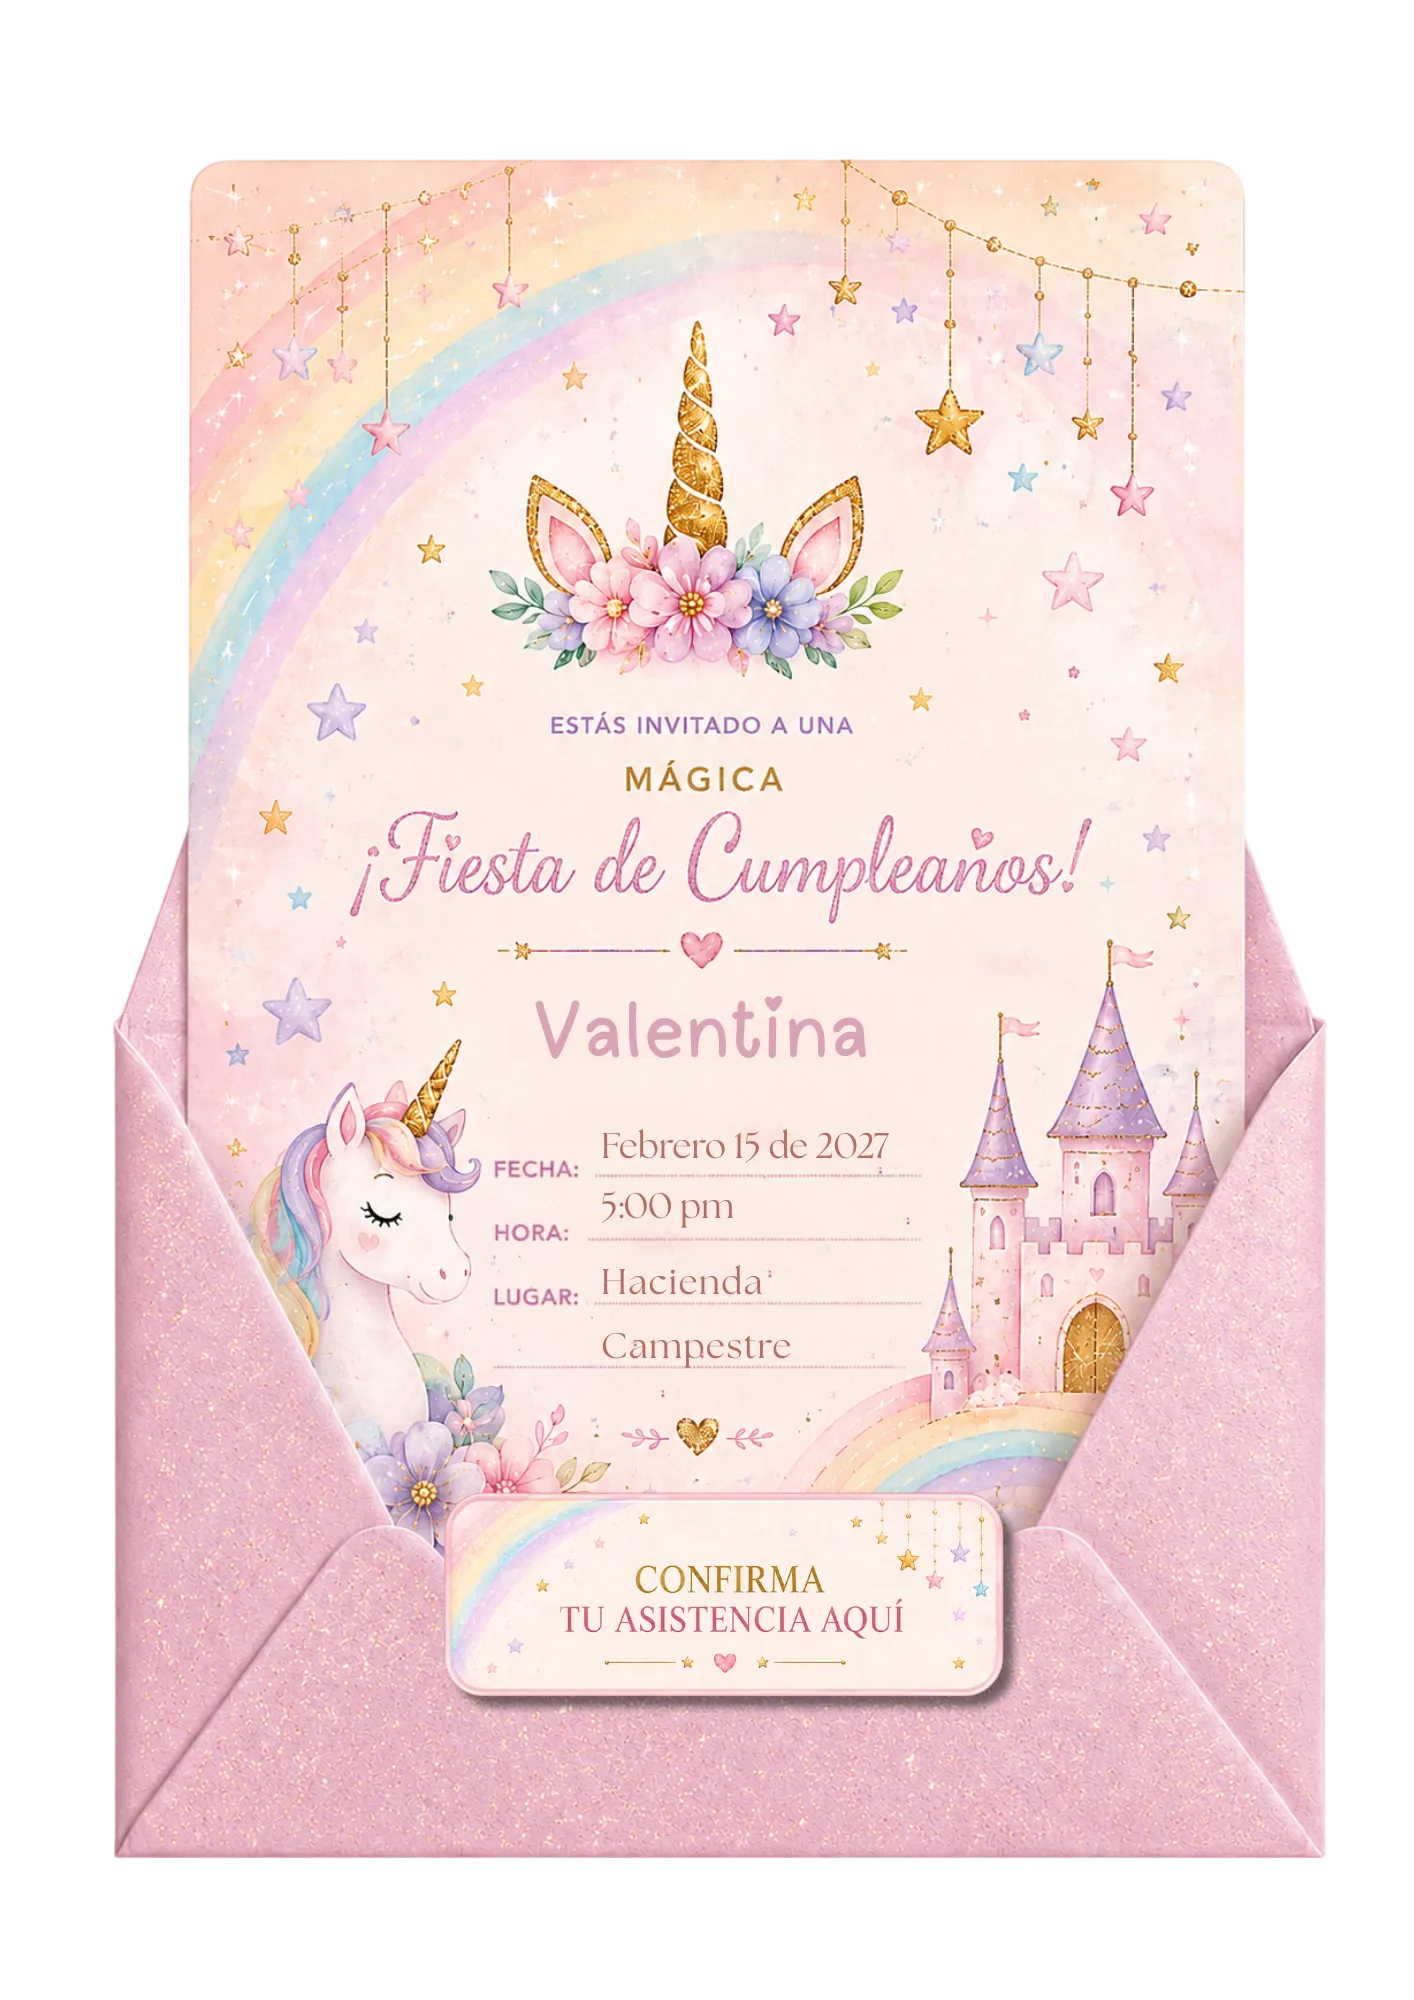
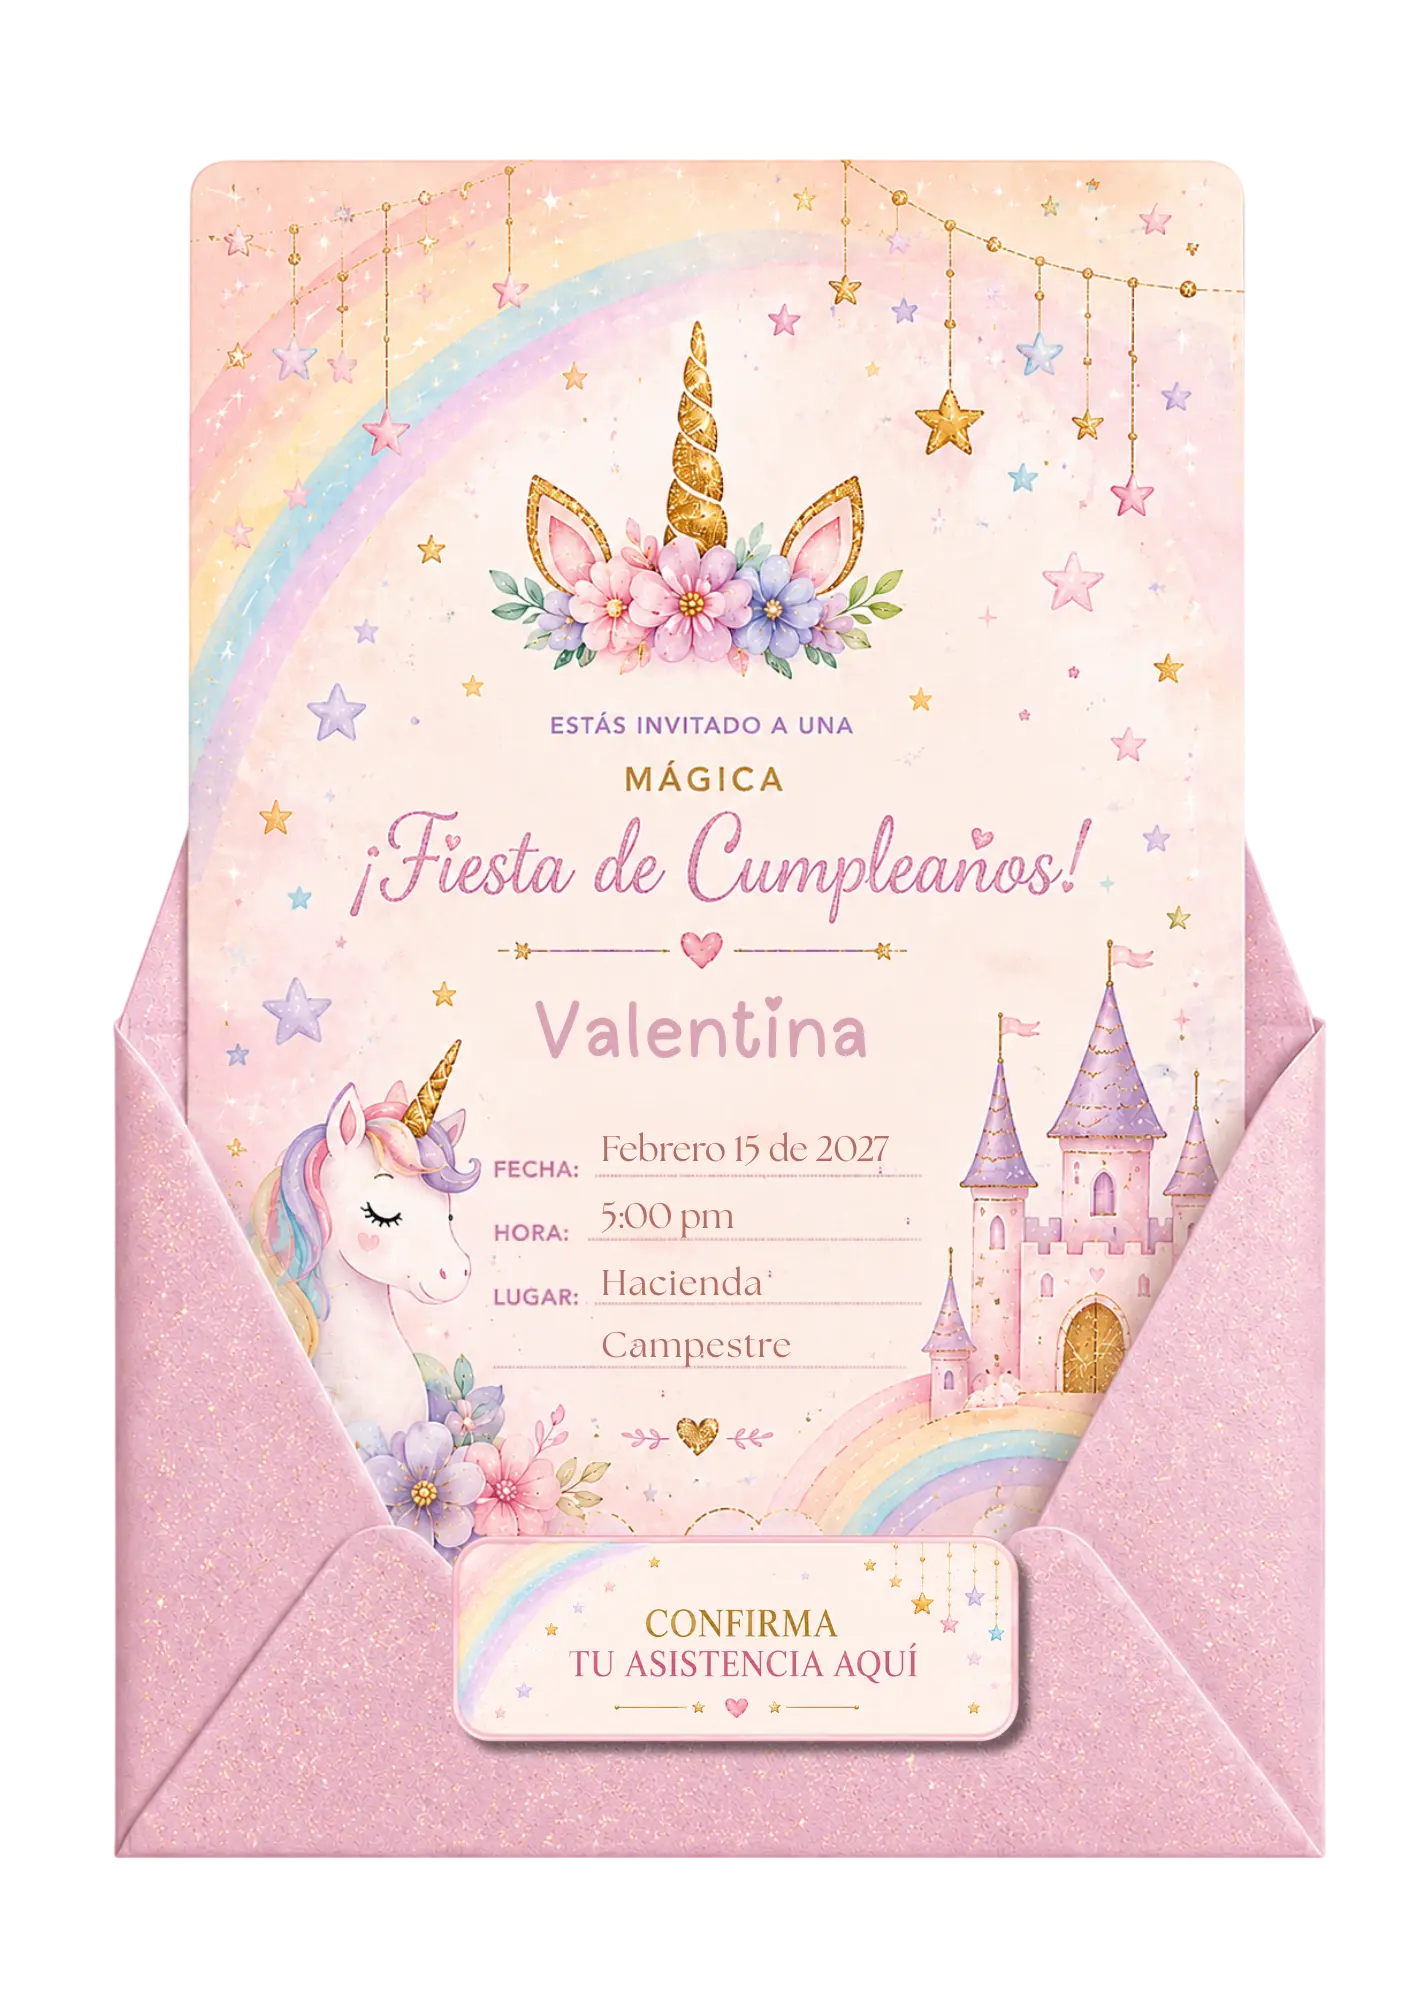
asdasd

Changed region(s): [[0.3112, 0.744, 0.7468, 0.899], [0.4356, 0.558, 0.529, 0.62], [0.529, 0.558, 0.6223, 0.589]]

diff --git a/src/data/colombia.ts b/src/data/colombia.ts
@@ -88,6 +88,14 @@ export const colombiaInvitations: Invitation[] = [
     openImage: "/Soccer Party open.webp",
   },
   {
+    title: "Little Chef",
+    category: "Cumpleaños y fiestas infantiles",
+    country: "co",
+    price: "$39",
+    closedImage: "/Little Chef close.webp",
+    openImage: "/Little Chef open.webp",
+  },
+  {
     title: "Dinosaur Party",
     category: "Cumpleaños y fiestas infantiles",
     country: "co",
@@ -249,14 +257,7 @@ export const colombiaInvitations: Invitation[] = [
     closedImage: "/Pirate Legacy close.webp",
     openImage: "/Pirate Legacy open.webp",
   },
-  {
-    title: "Little Chef",
-    category: "Cumpleaños y fiestas infantiles",
-    country: "co",
-    price: "$39",
-    closedImage: "/Little Chef.close.webp",
-    openImage: "/Little Chef open.webp",
-  },
+
   {
     title: "Little Chef Pink",
     category: "Cumpleaños y fiestas infantiles",
